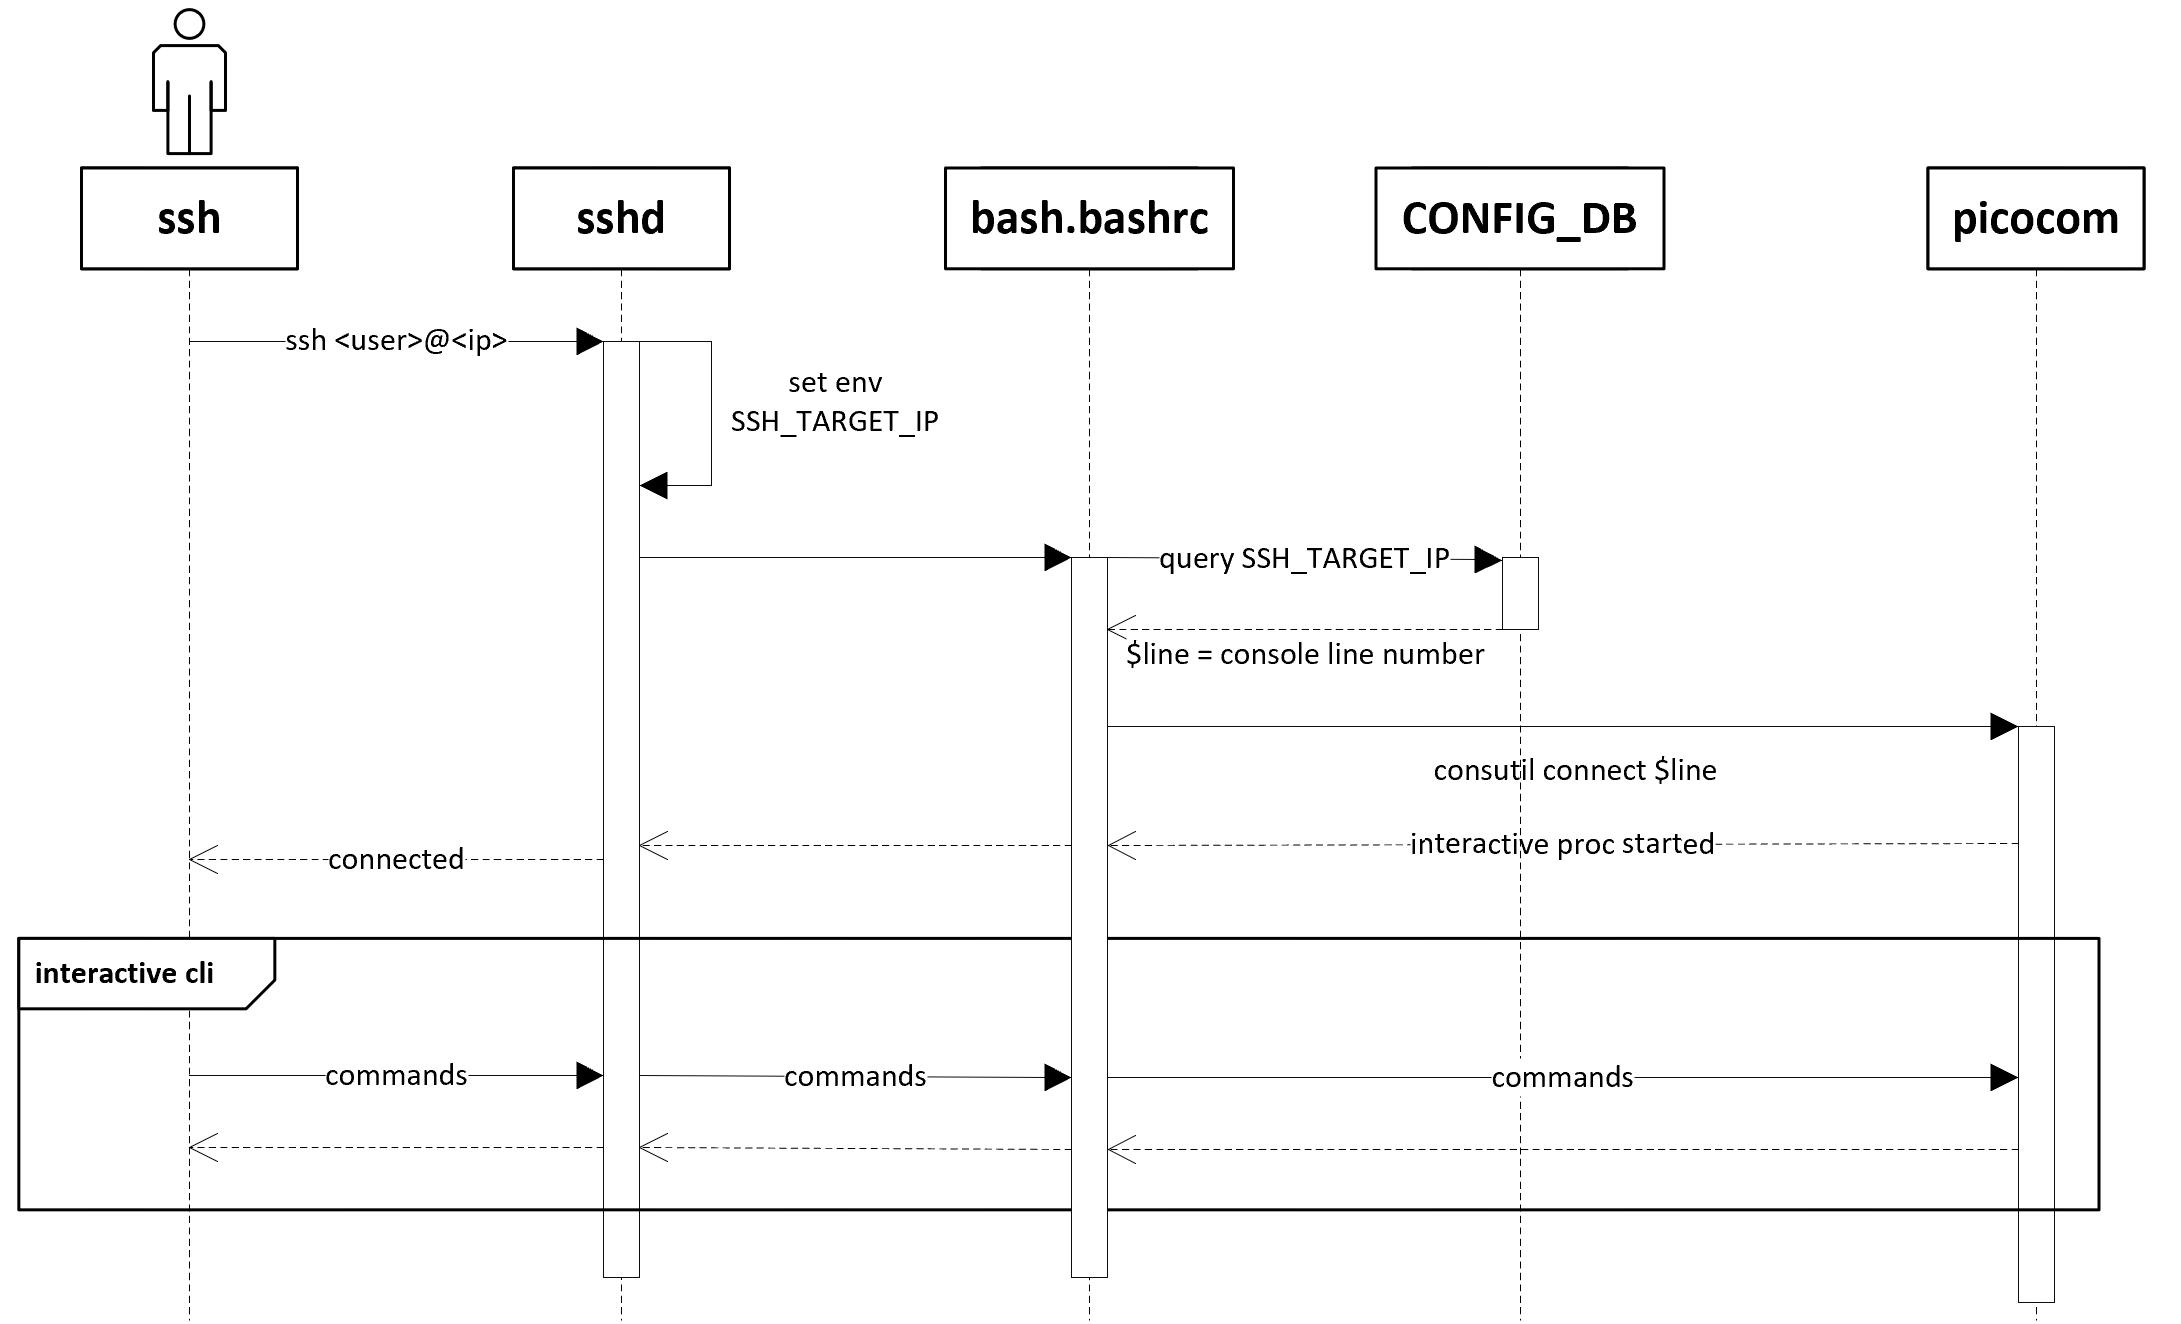
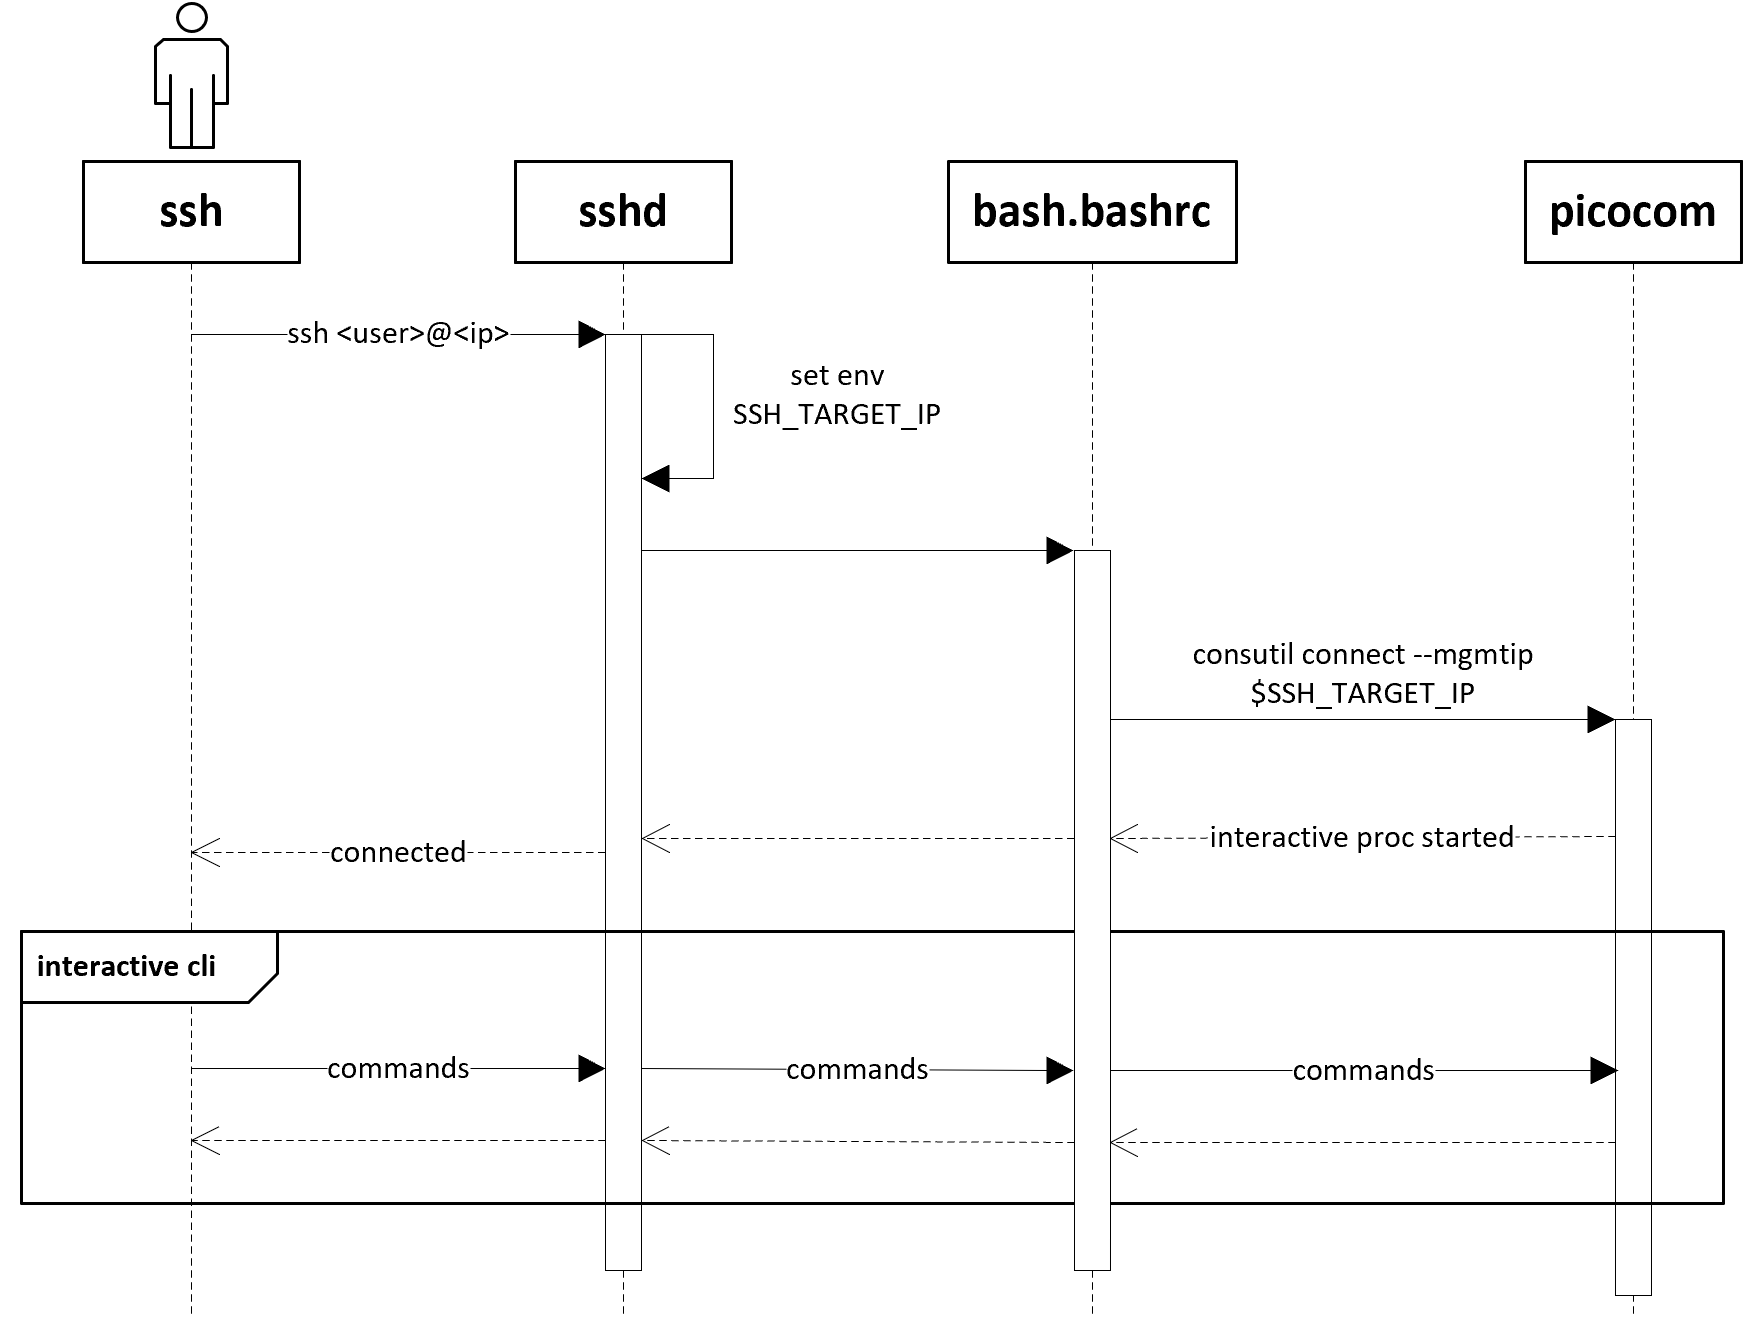
Update design document
- Add TOC
- Update some flow chart

diff --git a/doc/console/SONiC-Console-Switch-High-Level-Design.md b/doc/console/SONiC-Console-Switch-High-Level-Design.md
@@ -6,13 +6,71 @@
 #### Revision 0.1
 
 # Table of Contents
+- [SONiC Console Switch](#sonic-console-switch)
+- [High Level Design Document](#high-level-design-document)
+      - [Revision 0.1](#revision-01)
+- [Table of Contents](#table-of-contents)
+- [List of Tables](#list-of-tables)
+- [Revision](#revision)
+- [About this Manual](#about-this-manual)
+- [Scope](#scope)
+- [Definition/Abbreviation](#definition-abbreviation)
+    + [Table 1: Abbreviations](#table-1--abbreviations)
+- [1 Feature Overview](#1-feature-overview)
+  * [1.1 Requirements](#11-requirements)
+    + [1.1.1 Functional Requirements](#111-functional-requirements)
+    + [1.1.2 Configuration and Management Requirements](#112-configuration-and-management-requirements)
+  * [1.2 Design Overview](#12-design-overview)
+    + [1.2.1 Basic Approach](#121-basic-approach)
+    + [1.2.2 Container](#122-container)
+- [2 Functionality](#2-functionality)
+  * [2.1 Target Deployment Use Cases](#21-target-deployment-use-cases)
+  * [2.2 Functional Description](#22-functional-description)
+  * [2.3 Limitations](#23-limitations)
+- [3 Design](#3-design)
+  * [3.1 Overview](#31-overview)
+    + [3.1.1 Persist console port configurations](#311-persist-console-port-configurations)
+    + [3.1.2 Connect to a remote device](#312-connect-to-a-remote-device)
+    + [3.1.3 Reverse SSH](#313-reverse-ssh)
+  * [3.2 DB Changes](#32-db-changes)
+    + [3.2.1 CONFIG_DB](#321-config-db)
+      - [CONSOLE_PORT_TABLE](#console-port-table)
+    + [3.2.2 APP_DB](#322-app-db)
+    + [3.2.3 STATE_DB](#323-state-db)
+    + [3.2.4 ASIC_DB](#324-asic-db)
+    + [3.2.5 COUNTER_DB](#325-counter-db)
+  * [3.3 CLI](#33-cli)
+  * [3.3.1 Consutil Command](#331-consutil-command)
+    + [3.3.1.1 Show line](#3311-show-line)
+    + [3.3.1.2 Clear line](#3312-clear-line)
+    + [3.3.1.3 Connect line](#3313-connect-line)
+  * [3.4 Reverse SSH](#34-reverse-ssh)
+    + [3.4.1 Basic Usage](#341-basic-usage)
+    + [3.4.2 Port based Forwarding](#342-port-based-forwarding)
+    + [3.4.3 IP based Forwarding](#343-ip-based-forwarding)
+  * [3.5 Example Configuration](#35-example-configuration)
+    + [3.5.1 CONFIG_DB object for console port](#351-config-db-object-for-console-port)
+- [4 Flow Diagrams](#4-flow-diagrams)
+  * [4.1 Creating of Console Port Objects](#41-creating-of-console-port-objects)
+  * [4.2 Show lines](#42-show-lines)
+  * [4.3 Clear line](#43-clear-line)
+  * [4.4 Connect line in SONiC](#44-connect-line-in-sonic)
+  * [4.5 Connect line via SSH](#45-connect-line-via-ssh)
+    + [4.5.1 Basic Usage](#451-basic-usage)
+    + [4.5.2 Port based Forwarding](#452-port-based-forwarding)
+    + [4.5.3 IP based Forwarding](#453-ip-based-forwarding)
+- [5 Error Handling](#5-error-handling)
+- [6 Serviceability and Debug](#6-serviceability-and-debug)
+- [7 Warm Boot Support](#7-warm-boot-support)
+- [8 Scalability](#8-scalability)
 
 # List of Tables
+[Table 1: Abbreviations](#table-1-abbreviations)
 
 # Revision
 | Rev |     Date    |          Authors             | Change Description                |
 |:---:|:-----------:|:----------------------------:|-----------------------------------|
-| 0.1 | 08/20/2020  |  Jing Kan | Initial version                   |
+| 0.1 | 08/28/2020  |  Jing Kan | Initial version                   |
 
 # About this Manual
 
@@ -145,22 +203,25 @@ For A, user need to specific the line number by following a colon after username
 ssh tom:1@host
 ```
 
-By default, the content between ```:``` and ```@``` will be trimed by sshd before it do authentication and the trimed string will be dropped silently. To use this segment as line number for reverse SSH feature, we need to modify the source of OpenSSH and put this segment to a environment variable ```$SSH_TARGET_CONSOLE_LINE```, then we can insert a short script into ```/etc/bash.bashrc``` and run command ```consutil connect $SSH_TARGET_CONSOLE_LINE``` to enter the management session automatically after user login.
+By default, the content between ```:``` and ```@``` will be trimed by sshd before it do authentication and the trimed string will be dropped silently. To use this segment as line number for reverse SSH feature, we need to modify the source ode of OpenSSH and put this segment to a environment variable ```$SSH_TARGET_CONSOLE_LINE```, then we can insert a short script into ```/etc/bash.bashrc``` and run command ```consutil connect $SSH_TARGET_CONSOLE_LINE``` to enter the management session automatically after user login.
 
 For B, there are multiple management IPs binding to the SONiC device and mapping to each console port, for example:
 ```
-   IP    ->  Console Line Number -> Remote Device
-10.0.0.1 ->          1           ->   DeviceA
-10.0.0.2 ->          2           ->   DeviceB
-10.0.0.3 ->          3           ->   DeviceC
+   IP       ->  Console Line Number -> Remote Device
+2001:db8::1 ->          1           ->   DeviceA
+2001:db8::2 ->          2           ->   DeviceB
+2001:db8::3 ->          3           ->   DeviceC
 ```
 Then we can use below commands to connect to a remote device, what's more, we can use DNS to help us access the remote device more directly.
 ```bash
 # example
-ssh tom@10.0.0.1
-ssh tom@10.0.0.2
+# connect to deviceA
+ssh tom@2001:db8::1
 
-# Assume that domain name DeviceC.co point to 10.0.0.3
+# connect to DeviceB
+ssh tom@2001:db8::2
+
+# Assume that domain name DeviceC.co point to 2001:db8::3
 ssh tom@DeviceC.co
 ```
 The mechanism behind it is actually very similar to mode A. We will record the target ssh host IP address to a environment variable ```$SSH_TARGET_IP```. Since we have stored the relationship between line number and it's management IP, then we can easily start the management session automaticaaly after user login by calling ```consutil connect``` command in ```/etc/bash.bashrc```
@@ -188,7 +249,6 @@ flow_control  = "0"/"1"                 ; "0" means disable flow control
                                         ; "1" means enable flow control
 mgmt_ip       = ipv4_prefix/ipv6_prefix ; optional field,
                                         ; use for ip forwarding
-
 ```
 
 ### 3.2.2 APP_DB
@@ -225,10 +285,10 @@ Options:
 Commands:
   clear    Clear preexisting connection to line
   connect  Connect to switch via console device - TARGET...
-  show     Show all /dev/ttyUSB lines and their info
+  show     Show all lines and their info
 ```
 
-Please notice that a driver is required for add-on console device. The driver need to mapping its console lines to a device under```/dev``` with specific format, then the consutil command can interact with the target device with picocom/minicom and retrive required runtime information from system.
+Please notice that a driver is required for add-on console device. The driver need to mapping its console lines to a device under```/dev``` directory with specific format, then the consutil command can interact with the target device with picocom and retrive required runtime information from system.
 
 The ```driver``` field in ```CONFIG_DB``` will indicate which device naming format will be applied.
 
@@ -237,7 +297,7 @@ The ```driver``` field in ```CONFIG_DB``` will indicate which device naming form
 Show all registered lines and their infomations.
 
 ```
-Usage: sudo consutil show
+Usage: consutil show
 ```
 
 Following information will be display:
@@ -256,10 +316,24 @@ A ```*``` mark will display in front of line number if it is busy now.
 Clear preexisting connection to line.
 
 ```
-Usage: consutil clear [OPTIONS] LINENUM
+Usage: consutil clear [OPTIONS] TARGET
 ```
 
-It will sending SIGTERM to process if the line is busy now, otherwise the command will exit.
+The TARGET can be remote device name or line management IP if specific option ```--devicename``` or ```--mgmtip```.
+
+It will sending SIGTERM to process if the line is busy now, otherwise the command will exit directly.
+
+Sample Usage:
+```bash
+# clear connection on line 1
+consutil clear 1
+
+# clear connection to remote deviceA
+consutil clear --devicename deviceA
+
+# clear connection to remote deviceA via its line management IP
+consutil clear --mgmtip 2001:db8::1
+```
 
 ### 3.3.1.3 Connect line
 
@@ -269,9 +343,9 @@ Connect to switch via console.
 Usage: consutil connect [OPTIONS] TARGET
 ```
 
-The TARGET can be remoete device name or line management IP if specific ```--devicename``` or ```--mgmtip```.
+The TARGET can be remote device name or line management IP if specific option ```--devicename``` or ```--mgmtip```.
 
-This command will connect to remote device by using picocom, it will create a interactive cli if target line is not busy.
+This command will connect to remote device by using picocom, it will create a interactive cli and join it if target line is not busy.
 
 Sample Usage:
 ```bash
@@ -282,10 +356,8 @@ consutil connect 1
 consutil connect --devicename deviceA
 
 # connect to remote device via line management IP
-consutil connect --mgmtip 10.0.0.1
+consutil connect --mgmtip 2001:db8::1
 ```
-
-This command use picocom to create an interactive cli. It will create a picocom process with a specific device under ```/dev``` and join the interactive cli.
 
 ## 3.4 Reverse SSH
 
@@ -320,7 +392,7 @@ Console port 1 connect to a remote device ```switch1``` with baud_rate 9600 and 
             "remote_device": "switch1",
             "baud_rate": "9600",
             "flow_control": "1",
-            "mgmt_ip": "10.0.0.1"
+            "mgmt_ip": "2001:db8::1"
         }
     }
 }
@@ -328,10 +400,10 @@ Console port 1 connect to a remote device ```switch1``` with baud_rate 9600 and 
 User can manage remote device ```switch1``` by using below commands:
 ```bash
 ssh <user>@<host> consutil connect 1
-ssh <user>@<host> consutil connect switch1
-ssh <user>@<host> consutil connect 10.0.0.1
+ssh <user>@<host> consutil connect --devicename switch1
+ssh <user>@<host> consutil connect --mgmtip 2001:db8::1
 ssh <user>:1@<host>
-ssh <user>@10.0.0.1
+ssh <user>@2001:db8::1
 ```
 
 Console port 2 connect to a remote device ```switch2``` with baud_rate 9600 and disable flow control.
@@ -350,7 +422,7 @@ Console port 2 connect to a remote device ```switch2``` with baud_rate 9600 and 
 User can manage remote device ```switch2``` by using below commands:
 ```bash
 ssh <user>@<host> consutil connect 2
-ssh <user>@<host> consutil connect switch2
+ssh <user>@<host> consutil connect --devicename switch2
 ssh <user>:2@<host>
 ```
 
@@ -397,13 +469,10 @@ Refer to section 3.4.3
 # 5 Error Handling
 
 - Invalid config errors will be displayed via console and configuration will be rejected
-- Internal processing errors within SwSS will be logged in syslog with ERROR level
 
 # 6 Serviceability and Debug
 
 Debug output will be captured as part of tech support.
-
-- Internal processing errors within SwSS will be logged in syslog with ERROR level
 
 # 7 Warm Boot Support
 
@@ -417,5 +486,3 @@ The maximum number of console port setting is specific to the console hardware S
 
 If use USB, then the maximum number of add-on console device is specific to the maximum USB dasiy-chain capability.
 
----
-# References
